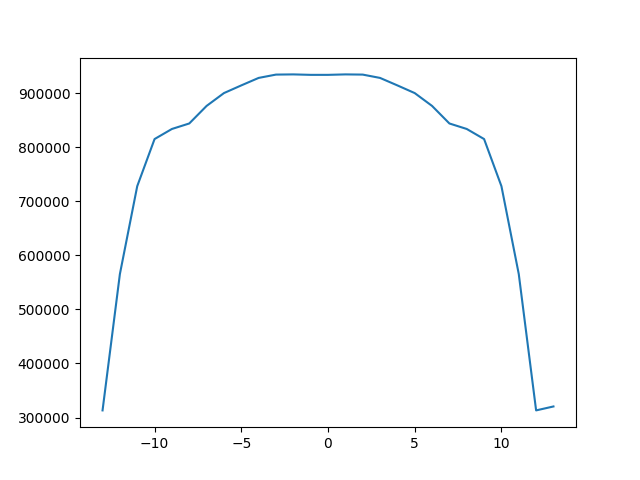
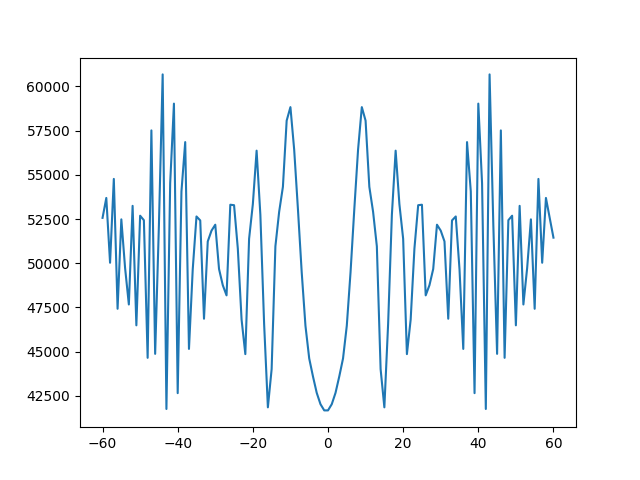
Co-authored-by: Alex <alex347a@users.noreply.github.com> Co-authored-by: Lukas Hjeronimus Sørensen <Lukas4314@users.noreply.github.com>

diff --git a/pc_code/sound_localization/Triangulate.py b/pc_code/sound_localization/Triangulate.py
@@ -115,13 +115,71 @@ def triangulate_from_sound(mic0_data, mic1_data, mic2_data):
     
     
     # Calculate TDOA estimates using GCC-PHAT
-    #tdoa_01 = gcc.PHAT_GCC_TDOA(mic0_data, mic1_data)  # If positive, mic1 is after mic0
-    #tdoa_02 = gcc.PHAT_GCC_TDOA(mic0_data, mic2_data)  # If positive, mic2 is after mic0
-    #tdoa_12 = gcc.PHAT_GCC_TDOA(mic1_data, mic2_data)  # If positive, mic2 is after mic1
+    tdoa_01 = gcc.PHAT_GCC_TDOA(mic0_data, mic1_data)  # If positive, mic1 is after mic0
+    tdoa_02 = gcc.PHAT_GCC_TDOA(mic0_data, mic2_data)  # If positive, mic2 is after mic0
+    tdoa_12 = gcc.PHAT_GCC_TDOA(mic1_data, mic2_data)  # If positive, mic2 is after mic1
     
-    tdoa_01, _, _ = gccphat_matlab(mic0_data, mic1_data)
-    tdoa_02, _, _ = gccphat_matlab(mic0_data, mic2_data)
-    tdoa_12, _, _ = gccphat_matlab(mic1_data, mic2_data)
+    allowed_max_tdoa = 80
+    
+    
+    good_tdoa_01 = None
+    good_tdoa_02 = None
+    good_tdoa_12 = None
+    
+    tdoa_01, r_01, lags_01 = gccphat_matlab(mic0_data, mic1_data)
+    tdoa_02, r_02, lags_02 = gccphat_matlab(mic0_data, mic2_data)
+    tdoa_12, r_12, lags_12 = gccphat_matlab(mic1_data, mic2_data)
+    # 01
+    r_temp = r_01.copy()
+    for _ in range(len(lags_01)):
+
+        idx = np.argmax(np.abs(r_temp))
+        tau = lags_01[idx]
+
+        if abs(tau) < allowed_max_tdoa:
+            good_tdoa_01 = tau
+            break
+
+        # zero out the peak that caused the invalid tau
+        r_temp[idx] = 0
+
+
+    # 02
+    r_temp = r_02.copy()
+    for _ in range(len(lags_02)):
+
+        idx = np.argmax(np.abs(r_temp))
+        tau = lags_02[idx]
+
+        if abs(tau) < allowed_max_tdoa:
+            good_tdoa_02 = tau
+            break
+
+        r_temp[idx] = 0
+
+
+    # 12
+    r_temp = r_12.copy()
+    for _ in range(len(lags_12)):
+
+        idx = np.argmax(np.abs(r_temp))
+        tau = lags_12[idx]
+
+        if abs(tau) < allowed_max_tdoa:
+            good_tdoa_12 = tau
+            break
+
+        r_temp[idx] = 0
+
+
+    print(f"Previous TDOA Estimates: {tdoa_01}, {tdoa_02}, {tdoa_12}")
+    print(f"Good TDOA Estimates: {good_tdoa_01}, {good_tdoa_02}, {good_tdoa_12}")
+    tdoa_01 = good_tdoa_01
+    tdoa_02 = good_tdoa_02
+    tdoa_12 = good_tdoa_12
+    
+    
+    
     
     integral_tdoa_01 = smallestIntegral.get_TDOA(filtered_mic0_data, filtered_mic1_data, name="integral_tdoa_01")
     integral_tdoa_02 = smallestIntegral.get_TDOA(filtered_mic0_data, filtered_mic2_data, name="integral_tdoa_02")
@@ -130,6 +188,30 @@ def triangulate_from_sound(mic0_data, mic1_data, mic2_data):
     print(f"Integral TDOA Estimates: {integral_tdoa_01}, {integral_tdoa_02}, {integral_tdoa_12}")
     
     print(f"TDOA Estimates: {tdoa_01}, {tdoa_02}, {tdoa_12}")
+    
+    # Printing which micophones are closer based on TDOA signs
+    if (tdoa_01 < 0):
+        print("Mic 0 is before Mic 1")
+    elif (tdoa_01 > 0):
+        print("Mic 1 is before Mic 0")
+    else:
+        print("Mic 0 and Mic 1 are at the same time")
+    
+    if (tdoa_02 < 0):
+        print("Mic 0 is before Mic 2")
+    elif (tdoa_02 > 0):
+        print("Mic 2 is before Mic 0")
+    else:
+        print("Mic 0 and Mic 2 are at the same time")
+
+    if (tdoa_12 < 0):
+        print("Mic 1 is before Mic 2")
+    elif (tdoa_12 > 0):
+        print("Mic 2 is before Mic 1")
+    else:
+        print("Mic 1 and Mic 2 are at the same time")
+    
+    
     tdoa_estimates = [tdoa_01, tdoa_02, tdoa_12]
     mic_positions = microphone_placement()
 

diff --git a/pc_code/sound_localization/gccPhat.py b/pc_code/sound_localization/gccPhat.py
@@ -36,7 +36,7 @@ def FFT(testarray):
 def filter_telephone_band(fftarray):
     N = len(fftarray)
     lowcut = 300
-    highcut = 3400
+    highcut = 1000
 
     fft_freqs = np.fft.fftfreq(N, d=1/SAMPLE_RATE)
     filter_mask = ((np.abs(fft_freqs) >= lowcut) & (np.abs(fft_freqs) <= highcut)).astype(float)
@@ -102,6 +102,28 @@ def PHAT_GCC_TDOA(signal1, signal2):
     #fft2 = filter_telephone_band(fft2)
     R = GCC(fft1, fft2)
     R_phat = phat_weight(R)
+    
+    
+    
+    if not hasattr(PHAT_GCC_TDOA, "counter"):
+        PHAT_GCC_TDOA.counter = 0
+        
+    fig = plt.figure()
+    plt.plot(np.abs(R_phat))
+    plt.title("GCC-PHAT Magnitude Spectrum")
+    plt.xlabel("Frequency (Hz)")
+    plt.ylabel("Magnitude")
+    plt.savefig(f"gcc_phat_magnitude_spectrum{PHAT_GCC_TDOA.counter}.png")
+    
+    fig = plt.figure()
+    plt.plot(np.angle(R_phat))
+    plt.title("GCC-PHAT Phase Spectrum")
+    plt.xlabel("Frequency (Hz)")
+    plt.ylabel("Phase (radians)")
+    plt.savefig(f"gcc_phat_phase_spectrum{PHAT_GCC_TDOA.counter}.png")
+    
+    PHAT_GCC_TDOA.counter += 1
+    
     if SHOULD_PLOT == True:
         plt.plot(R_phat)
         plt.title("GCC-PHAT spectrum")

diff --git a/main.py b/main.py
@@ -49,7 +49,7 @@ def main():
                     best_index = transcriber_instance.find_nearest_here(start_index, end_index)
                     offset  = 2
                     start_buffer = 0
-                    end_buffer = 3
+                    end_buffer = 0
                     turtleController.go_to_human(start_index = best_index - start_buffer + offset, end_index = best_index + end_buffer + offset)
                     raise Exception("Stopping for now")
                     continue

diff --git a/pc_code/sound_localization/smallestIntegral.py b/pc_code/sound_localization/smallestIntegral.py
@@ -12,7 +12,7 @@ def apply_lowpass_filter(sig, cutoff_freq, fs):
     return filtered_sig
 
 
-def get_TDOA(sig, refsig, search_area = 13, name="integralTDOA"):
+def get_TDOA(sig, refsig, search_area = 60, name="integralTDOA"):
     # Pad signals to avoid looping around
     
     scores = {}
